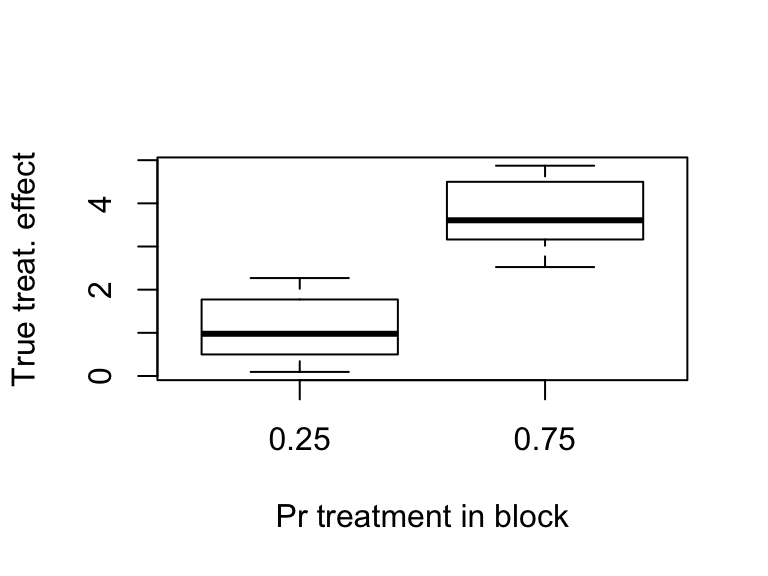
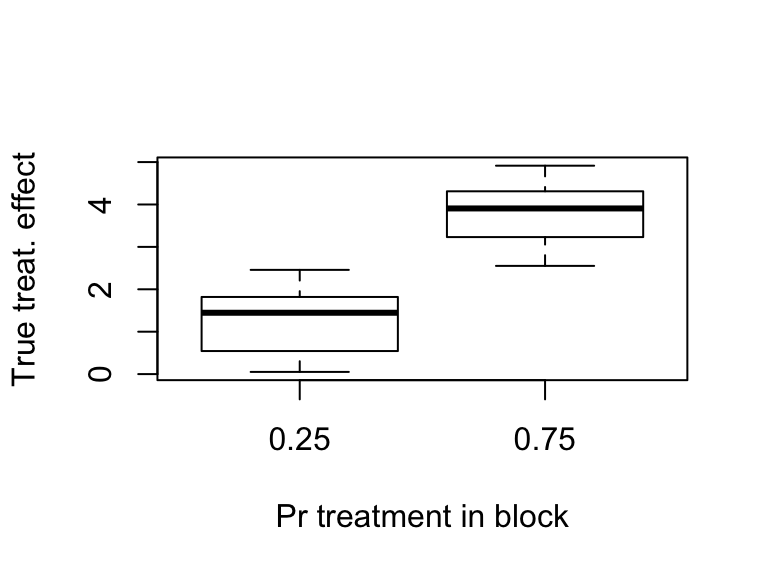
Closes #144, #139, #136; updates vignette, adds tests, updates site

diff --git a/docs/articles/mathematical-notes.html b/docs/articles/mathematical-notes.html
@@ -136,7 +136,7 @@
 <p><span class="math display">\[
 \widehat{\beta} =(\mathbf{X}^{\top}\mathbf{X})^{-1}\mathbf{X}^{\top}\mathbf{y}
 \]</span></p>
-<p>Our algorithm solves the least squares problem using a rank-revealing column-pivoting QR factorization that eliminates the need to invert <span class="math inline">\((\mathbf{X}^{\top}\mathbf{X})^{-1}\)</span> explicitly and behaves much like the default <code>lm</code> function in R. However, when <span class="math inline">\(\mathbf{X}\)</span> is rank deficient, there are certain conditions under which the QR factorization algorithm we use, from the Eigen C++ library, drops different coefficients from the output than the default <code>lm</code> function. In general, users should avoid specifing models with rank-deficiencies. In fact, if users are certain their data are not rank deficient, they can improve the speed of <code>lm_robust</code> by setting <code>try_cholesky = TRUE</code>. This replaces the QR factorization with a Cholesky factorization that is only guaranteed to work <span class="math inline">\(\mathbf{X}\)</span> is of full rank.</p>
+<p>Our algorithm solves the least squares problem using a rank-revealing column-pivoting QR factorization that eliminates the need to invert <span class="math inline">\((\mathbf{X}^{\top}\mathbf{X})^{-1}\)</span> explicitly and behaves much like the default <code>lm</code> function in R. However, when <span class="math inline">\(\mathbf{X}\)</span> is rank deficient, there are certain conditions under which the QR factorization algorithm we use, from the Eigen C++ library, drops different coefficients from the output than the default <code>lm</code> function. In general, users should avoid specifying models with rank-deficiencies. In fact, if users are certain their data are not rank deficient, they can improve the speed of <code>lm_robust</code> by setting <code>try_cholesky = TRUE</code>. This replaces the QR factorization with a Cholesky factorization that is only guaranteed to work <span class="math inline">\(\mathbf{X}\)</span> is of full rank.</p>
 <div id="weights" class="section level4">
 <h4 class="hasAnchor">
 <a href="#weights" class="anchor"></a>Weights</h4>
@@ -272,7 +272,7 @@
 <li>
 <span class="math inline">\(\mathbf{A}_s\)</span> and <span class="math inline">\(\mathbf{p}\)</span> are defined in the notes below</li>
 </ul>
-<p><strong>Further notes on CR2:</strong> The variance estimator we implement is shown in equations (4) and (5) in <span class="citation">Pustejovsky and Tipton (<a href="#ref-pustejovskytipton2016">2016</a>)</span> and equation (11), where we set <span class="math inline">\(\mathbf{\Phi}\)</span> to be <span class="math inline">\(I\)</span>, following <span class="citation">Bell and McCaffrey (<a href="#ref-bellmccaffrey2002">2002</a>)</span>. Furthernote that the <span class="citation">Pustejovsky and Tipton (<a href="#ref-pustejovskytipton2016">2016</a>)</span> CR2 estimator and the <span class="citation">Bell and McCaffrey (<a href="#ref-bellmccaffrey2002">2002</a>)</span> estimator are identical when <span class="math inline">\(\mathbf{B_s}\)</span> is full rank. It could be rank-deficient if there were dummy variables, or fixed effects, that were also your clusters. In this case, the original <span class="citation">Bell and McCaffrey (<a href="#ref-bellmccaffrey2002">2002</a>)</span> estimator could not be computed. You can see the simpler <span class="citation">Bell and McCaffrey (<a href="#ref-bellmccaffrey2002">2002</a>)</span> estimator written up plainly on page 709 of <span class="citation">Imbens and Kolesar (<a href="#ref-imbenskolesar2016">2016</a>)</span> along with the degrees of freedom denoted as <span class="math inline">\(K_{BM}\)</span>.</p>
+<p><strong>Further notes on CR2:</strong> The variance estimator we implement is shown in equations (4) and (5) in <span class="citation">Pustejovsky and Tipton (<a href="#ref-pustejovskytipton2016">2016</a>)</span> and equation (11), where we set <span class="math inline">\(\mathbf{\Phi}\)</span> to be <span class="math inline">\(I\)</span>, following <span class="citation">Bell and McCaffrey (<a href="#ref-bellmccaffrey2002">2002</a>)</span>. Further note that the <span class="citation">Pustejovsky and Tipton (<a href="#ref-pustejovskytipton2016">2016</a>)</span> CR2 estimator and the <span class="citation">Bell and McCaffrey (<a href="#ref-bellmccaffrey2002">2002</a>)</span> estimator are identical when <span class="math inline">\(\mathbf{B_s}\)</span> is full rank. It could be rank-deficient if there were dummy variables, or fixed effects, that were also your clusters. In this case, the original <span class="citation">Bell and McCaffrey (<a href="#ref-bellmccaffrey2002">2002</a>)</span> estimator could not be computed. You can see the simpler <span class="citation">Bell and McCaffrey (<a href="#ref-bellmccaffrey2002">2002</a>)</span> estimator written up plainly on page 709 of <span class="citation">Imbens and Kolesar (<a href="#ref-imbenskolesar2016">2016</a>)</span> along with the degrees of freedom denoted as <span class="math inline">\(K_{BM}\)</span>.</p>
 <p>In the CR2 variance calculation, we get <span class="math inline">\(\mathbf{A}_s\)</span> as follows:</p>
 <p><span class="math display">\[
 \begin{aligned}
@@ -473,7 +473,7 @@ y_i = \tau z_i + \mathbf{\beta}^\top \mathbf{x}^c_i  + \mathbf{\gamma}^\top \mat
 \end{aligned}
 \]</span></p>
 <p><strong>Clustered designs</strong></p>
-<p>For clustered designs, we use the following collpased estimator by setting <code>collapsed = TRUE</code>. Here, <span class="math inline">\(M\)</span> is the total number of clusters, <span class="math inline">\(y_k\)</span> is the total of the outcomes <span class="math inline">\(y_i\)</span> for all <span class="math inline">\(i\)</span> units in cluster <span class="math inline">\(k\)</span>, <span class="math inline">\(\pi_zk\)</span> is the marginal probability of cluster <span class="math inline">\(k\)</span> being in condition <span class="math inline">\(z \in \{0, 1\}\)</span>, and <span class="math inline">\(z_k\)</span> and <span class="math inline">\(\pi_{zkwl}\)</span> are defined analogously. Warning! If one passes <code>condition_pr_mat</code> to <code>horvitz_thompson</code> for a clustered design, but not <code>clusters</code>, the function will not use the collapsed estimator the the variance estimate will be innacurate.</p>
+<p>For clustered designs, we use the following collapsed estimator by setting <code>collapsed = TRUE</code>. Here, <span class="math inline">\(M\)</span> is the total number of clusters, <span class="math inline">\(y_k\)</span> is the total of the outcomes <span class="math inline">\(y_i\)</span> for all <span class="math inline">\(i\)</span> units in cluster <span class="math inline">\(k\)</span>, <span class="math inline">\(\pi_zk\)</span> is the marginal probability of cluster <span class="math inline">\(k\)</span> being in condition <span class="math inline">\(z \in \{0, 1\}\)</span>, and <span class="math inline">\(z_k\)</span> and <span class="math inline">\(\pi_{zkwl}\)</span> are defined analogously. Warning! If one passes <code>condition_pr_mat</code> to <code>horvitz_thompson</code> for a clustered design, but not <code>clusters</code>, the function will not use the collapsed estimator the the variance estimate will be inaccurate.</p>
 <p><span class="math display">\[
 \begin{aligned}
   \widehat{\mathbb{V}}_{Y}[\widehat{\tau}] = \frac{1}{N^2} \sum^M_{k=1} \Bigg[&amp; z_k \left(\frac{y_k}{\pi_{1k}}\right)^2 + (1 - z_k) \left(\frac{y_k}{\pi_{0k}}\right)^2 + \sum_{l \neq k} \bigg(\frac{z_k z_l}{\pi_{1k1l} + \epsilon_{1k1l}}(\pi_{1k1l} - \pi_{1k}\pi_{1l})\frac{y_k}{\pi_{1k}}\frac{y_l}{\pi_{1l}} \\\\\\
@@ -503,7 +503,7 @@ y_i = \tau z_i + \mathbf{\beta}^\top \mathbf{x}^c_i  + \mathbf{\gamma}^\top \mat
 <p>Theory on hypothesis testing with the Horvitz-Thompson estimator is yet to be developed. We rely on a normal approximation and construct confidence intervals in the following way: <span class="math display">\[
 \mathrm{CI}^{1-\alpha} = \left(\widehat{\tau} + z_{\alpha/2} \sqrt{\widehat{\mathbb{V}}[\widehat{\tau}]}, \widehat{\tau} + z_{1 - \alpha/2} \sqrt{\widehat{\mathbb{V}}[\widehat{\tau}]}\right)
 \]</span></p>
-<p>The associated p-values for a two-sided null hypothesis test are computed using a normal disribution and the aforementioned significance level <span class="math inline">\(\alpha\)</span>.</p>
+<p>The associated p-values for a two-sided null hypothesis test are computed using a normal distribution and the aforementioned significance level <span class="math inline">\(\alpha\)</span>.</p>
 </div>
 </div>
 </div>

diff --git a/docs/articles/stata-wls-hat.html b/docs/articles/stata-wls-hat.html
@@ -164,13 +164,13 @@ y_i = \mathbf{x}_i^\top \mathbf{\beta} + \epsilon_i,
 \]</span></p>
 <p>Both rely on the hat matrix. Crucially, this is where Stata and the packages and modules in R and Python disagree. When weights are specified, Stata estimates the hat matrix as</p>
 <p><span class="math display">\[
-\mathbf{H}_{R} = \mathbf{X} (\mathbf{X}^{\top}\mathbf{W}\mathbf{X})^{-1} \mathbf{X}^\top,
+\mathbf{H}_{Stata} = \mathbf{X} (\mathbf{X}^{\top}\mathbf{W}\mathbf{X})^{-1} \mathbf{X}^\top,
 \]</span></p>
 <p>while the other software uses</p>
 <p><span class="math display">\[
-\mathbf{H}_{Stata} = \mathbf{X} (\mathbf{X}^{\top}\mathbf{W}\mathbf{X})^{-1} \mathbf{X}^\top \mathbf{W}.
+\mathbf{H}_{R} = \mathbf{X} (\mathbf{X}^{\top}\mathbf{W}\mathbf{X})^{-1} \mathbf{X}^\top \mathbf{W}.
 \]</span></p>
-<p>Thus the HC2 and HC3 estimator differ as the values of $h_{ii} are quite different. How different are these results? Let’s use a little example using <code>mtcars</code> a dataset included with R.</p>
+<p>Thus the HC2 and HC3 estimator differ as the values of <span class="math inline">\(h_{ii}\)</span> are quite different. How different are these results? Let’s use a little example using <code>mtcars</code> a dataset included with R.</p>
 <div class="sourceCode"><pre class="sourceCode r"><code class="sourceCode r"><span class="co"># Using estimatr</span>
 <span class="kw">library</span>(estimatr)
 <span class="kw"><a href="../reference/lm_robust.html">lm_robust</a></span>(
@@ -211,7 +211,7 @@ reg mpg hp [aweight=wt], vce(hc2)</code></pre>
 <div id="which-should-we-prefer" class="section level4">
 <h4 class="hasAnchor">
 <a href="#which-should-we-prefer" class="anchor"></a>Which should we prefer?</h4>
-<p>Just because Stata is not documenting their HC2 and HC3 estimator does not mean they’re wrong. Also the differences tend to be minor. In fact, it is unclear which we should prefer given that there is not a strong literature supporting one or the other. However, there are several arguments to be made for <span class="math inline">\(H_{R}\)</span>.</p>
+<p>Just because Stata is not documenting their HC2 and HC3 estimator does not mean they’re wrong. Also the differences tend to be minor. In fact, it is unclear which we should prefer given that there is not a strong literature supporting one or the other. However, there are several arguments to be made for <span class="math inline">\(\matbf{H}_{R}\)</span>.</p>
 <ol style="list-style-type: decimal">
 <li>It’s the estimator you get when you weight your data by the square root of the weights (<span class="math inline">\(\mathbf{X} \rightarrow \widetilde{\mathbf{X}}\)</span> and <span class="math inline">\(\mathbf{y} \rightarrow \widetilde{\mathbf{y}}\)</span>) and fit regular ordinary least squares. If one considers the weighted model as simply a rescaled version of the unweighted moded, then users should prefer <span class="math inline">\(\mathbf{H}_{R}\)</span>.</li>
 <li>The diagonal of <span class="math inline">\(\mathbf{H}_{R}\)</span> are the weighted leverages <span class="citation">(Li and Valliant <a href="#ref-livalliant2009">2009</a>)</span>, while <span class="math inline">\(\mathbf{H}_{Stata}\)</span> would need to be weighted again for the diagonal to recover the weighted leverage.</li>

diff --git a/docs/news/index.html b/docs/news/index.html
@@ -130,18 +130,28 @@
     </div>
 
     <div class="contents">
-    <div id="estimatr-0-3-0-github-version" class="section level1">
+    <div id="estimatr-0-5-0-github-version" class="section level1">
 <h1 class="hasAnchor">
-<a href="#estimatr-0-3-0-github-version" class="anchor"></a>estimatr 0.3.0 (GitHub version)</h1>
+<a href="#estimatr-0-5-0-github-version" class="anchor"></a>estimatr 0.5.0 (GitHub version)</h1>
+<ul>
+<li>No changes as of yet</li>
+</ul>
+</div>
+    <div id="estimatr-0-4-0-cran-version" class="section level1">
+<h1 class="hasAnchor">
+<a href="#estimatr-0-4-0-cran-version" class="anchor"></a>estimatr 0.4.0 (CRAN version)</h1>
 <ul>
 <li>Changed suffix added to centered variables in <code><a href="../reference/lm_lin.html">lm_lin()</a></code> from <code>_bar</code> to <code>_c</code>
 </li>
-<li>Updated vignettes, including fixing math notation in vignettes for CRAN</li>
+<li>Added all vignettes to <code>.Rbuildignore</code>, only available on website now</li>
+<li>Fixed <code>lm_robust_helper.cpp</code> algorithm to not catch own exception and to deal with <code>valgrind</code> memory errors</li>
+<li>Bugfix where passing a formula as an object within a function would fail</li>
+<li>Simplified some tests for various CRAN test platforms</li>
 </ul>
 </div>
-    <div id="estimatr-0-2-0-cran-version" class="section level1">
+    <div id="estimatr-0-2-0" class="section level1">
 <h1 class="hasAnchor">
-<a href="#estimatr-0-2-0-cran-version" class="anchor"></a>estimatr 0.2.0 (CRAN version)</h1>
+<a href="#estimatr-0-2-0" class="anchor"></a>estimatr 0.2.0</h1>
 <ul>
 <li>First <strong>CRAN</strong> upload</li>
 </ul>
@@ -153,8 +163,9 @@
     <div id="tocnav">
       <h2>Contents</h2>
       <ul class="nav nav-pills nav-stacked">
-        <li><a href="#estimatr-0-3-0-github-version">0.3.0</a></li>
-        <li><a href="#estimatr-0-2-0-cran-version">0.2.0</a></li>
+        <li><a href="#estimatr-0-5-0-github-version">0.5.0</a></li>
+        <li><a href="#estimatr-0-4-0-cran-version">0.4.0</a></li>
+        <li><a href="#estimatr-0-2-0">0.2.0</a></li>
       </ul>
     </div>
   </div>

diff --git a/docs/articles/simulations-debiasing-dim.html b/docs/articles/simulations-debiasing-dim.html
@@ -369,12 +369,12 @@ simp_cl_des &lt;-<span class="st"> </span><span class="kw"><a href="http://www.r
 <span class="kw">table</span>(<span class="dt">Z =</span> dat<span class="op">$</span>Z, <span class="dt">clusters =</span> dat<span class="op">$</span>clusters)</code></pre></div>
 <pre><code>##    clusters
 ## Z   01 02 03 04 05 06 07 08 09 10 11 12 13 14 15 16 17 18 19 20 21 22 23
-##   0  8  8  8  8  0  8  8  0  8  8  8  0  8  8  0  8  8  0  0  0  8  0  8
-##   1  0  0  0  0  8  0  0  8  0  0  0  8  0  0  8  0  0  8  8  8  0  8  0
+##   0  8  0  8  8  0  8  0  0  0  8  0  8  0  0  8  8  8  8  0  8  8  8  8
+##   1  0  8  0  0  8  0  8  8  8  0  8  0  8  8  0  0  0  0  8  0  0  0  0
 ##    clusters
 ## Z   24 25 26 27 28 29 30 31 32 33 34 35 36 37 38 39 40
-##   0  0  0  8  0  0  0  8  0  0  0  0  0  8  0  8  8  0
-##   1  8  8  0  8  8  8  0  8  8  8  8  8  0  8  0  0  8</code></pre>
+##   0  0  0  0  0  8  0  8  8  8  0  0  0  8  0  0  0  8
+##   1  8  8  8  8  0  8  0  0  0  8  8  8  0  8  8  8  0</code></pre>
 <p>Furthermore, treatment potential outcomes are correlated with cluster.</p>
 <div class="sourceCode"><pre class="sourceCode r"><code class="sourceCode r"><span class="kw">plot</span>(dat<span class="op">$</span>clusters, dat<span class="op">$</span>Y_Z_<span class="dv">1</span>,
      <span class="dt">ylab =</span> <span class="st">"Y_Z_1 (treatment PO)"</span>, <span class="dt">xlab =</span> <span class="st">"Cluster ID"</span>)</code></pre></div>

diff --git a/docs/articles/getting-started.html b/docs/articles/getting-started.html
@@ -472,8 +472,7 @@ mar_int &lt;-<span class="st"> </span><span class="kw"><a href="http://www.rdocu
 <p>Users who want their regression output in LaTeX or HTML can use the <a href="https://github.com/leifeld/texreg"><code>texreg</code></a> package, which we extend for the output of both the <code><a href="../reference/lm_robust.html">lm_robust()</a></code> and <code><a href="../reference/lm_lin.html">lm_lin()</a></code> functions.</p>
 <div class="sourceCode"><pre class="sourceCode r"><code class="sourceCode r"><span class="kw">library</span>(texreg)
 
-tex_int &lt;-<span class="st"> </span><span class="kw"><a href="http://www.rdocumentation.org/packages/texreg/topics/extract">extract</a></span>(res_int)
-<span class="kw"><a href="http://www.rdocumentation.org/packages/texreg/topics/texreg">texreg</a></span>(tex_int, <span class="dt">file =</span> <span class="st">"ex.tex"</span>)</code></pre></div>
+<span class="kw"><a href="http://www.rdocumentation.org/packages/texreg/topics/texreg">texreg</a></span>(lmout)</code></pre></div>
 </div>
 <div id="lm_lin" class="section level2">
 <h2 class="hasAnchor">

diff --git a/docs/reference/horvitz_thompson.html b/docs/reference/horvitz_thompson.html
@@ -384,7 +384,7 @@ only use this option if they are certain they know what they are doing.</p>
 )</div><div class='output co'>#&gt; <span class='message'>`simple = FALSE, using complete cluster randomization</span></div><div class='input'><span class='no'>ht_cl</span></div><div class='output co'>#&gt;   Estimate Std. Error   Pr(&gt;|t|)    CI Lower  CI Upper DF
 #&gt; z 0.373693   0.189923 0.04911381 0.001450693 0.7459353 NA</div><div class='input'><span class='no'>ht_cl_manual</span></div><div class='output co'>#&gt;   Estimate Std. Error   Pr(&gt;|t|)    CI Lower  CI Upper DF
 #&gt; z 0.373693   0.189923 0.04911381 0.001450693 0.7459353 NA</div><div class='input'>
-<span class='co'># Blcoked estimators specified similarly</span>
+<span class='co'># Blocked estimators specified similarly</span>
 
 <span class='co'>#----------</span>
 <span class='co'># More complicated assignment</span>

diff --git a/docs/articles/simulations-ols-variance.html b/docs/articles/simulations-ols-variance.html
@@ -133,7 +133,7 @@ dat &lt;-<span class="st"> </span><span class="kw">data.frame</span>(<span class
 <p>The function</p>
 <p><span class="math display">\[
 \epsilon_i \overset{i.i.d.}{\sim} N(0, \sigma^2),
-\]</span> encodes the assumption of homoskedaticity. Because of these homoskedastic errors, we know that the true variance of the coefficients with fixed covariates is</p>
+\]</span> encodes the assumption of homoskedasticity. Because of these homoskedastic errors, we know that the true variance of the coefficients with fixed covariates is</p>
 <p><span class="math display">\[
 \mathbb{V}[\widehat{\beta}] = \sigma^2 (\mathbf{X}^\top \mathbf{X})^{-1},
 \]</span></p>

diff --git a/docs/reference/lm_robust.html b/docs/reference/lm_robust.html
@@ -167,8 +167,7 @@ corresponds to the clusters in the data.</p></td>
       <td><p>The sort of standard error sought. If `clusters` is
 not specified the options are "HC0", "HC1" (or "stata", the equivalent),
  "HC2" (default), "HC3", or
-"classical". If `clusters` is specified the options are "CR0", "CR2" (default), or "stata" are
-permissible.</p></td>
+"classical". If `clusters` is specified the options are "CR0", "CR2" (default), or "stata".</p></td>
     </tr>
     <tr>
       <th>ci</th>

diff --git a/docs/reference/lm_lin.html b/docs/reference/lm_lin.html
@@ -147,7 +147,7 @@ data. This implements the method described by Lin (2013).</p>
     </tr>
     <tr>
       <th>covariates</th>
-      <td><p>a right-sided formula with pre-treatment covaraites on
+      <td><p>a right-sided formula with pre-treatment covariates on
 the right hand side, such as <code> ~ x1 + x2 + x3</code>.</p></td>
     </tr>
     <tr>

diff --git a/docs/articles/index.html b/docs/articles/index.html
@@ -123,7 +123,7 @@
       </header>
 
       <div class="page-header">
-  <h1>Articles <small>version&nbsp;0.3.0</small></h1>
+  <h1>Articles <small>version&nbsp;0.5.0</small></h1>
 </div>
 
 <div class="row">

diff --git a/docs/reference/index.html b/docs/reference/index.html
@@ -127,7 +127,7 @@
     <div class="page-header">
       <h1>
         Reference
-        <small>version&nbsp;0.3.0</small>
+        <small>version&nbsp;0.5.0</small>
       </h1>
     </div>
 
